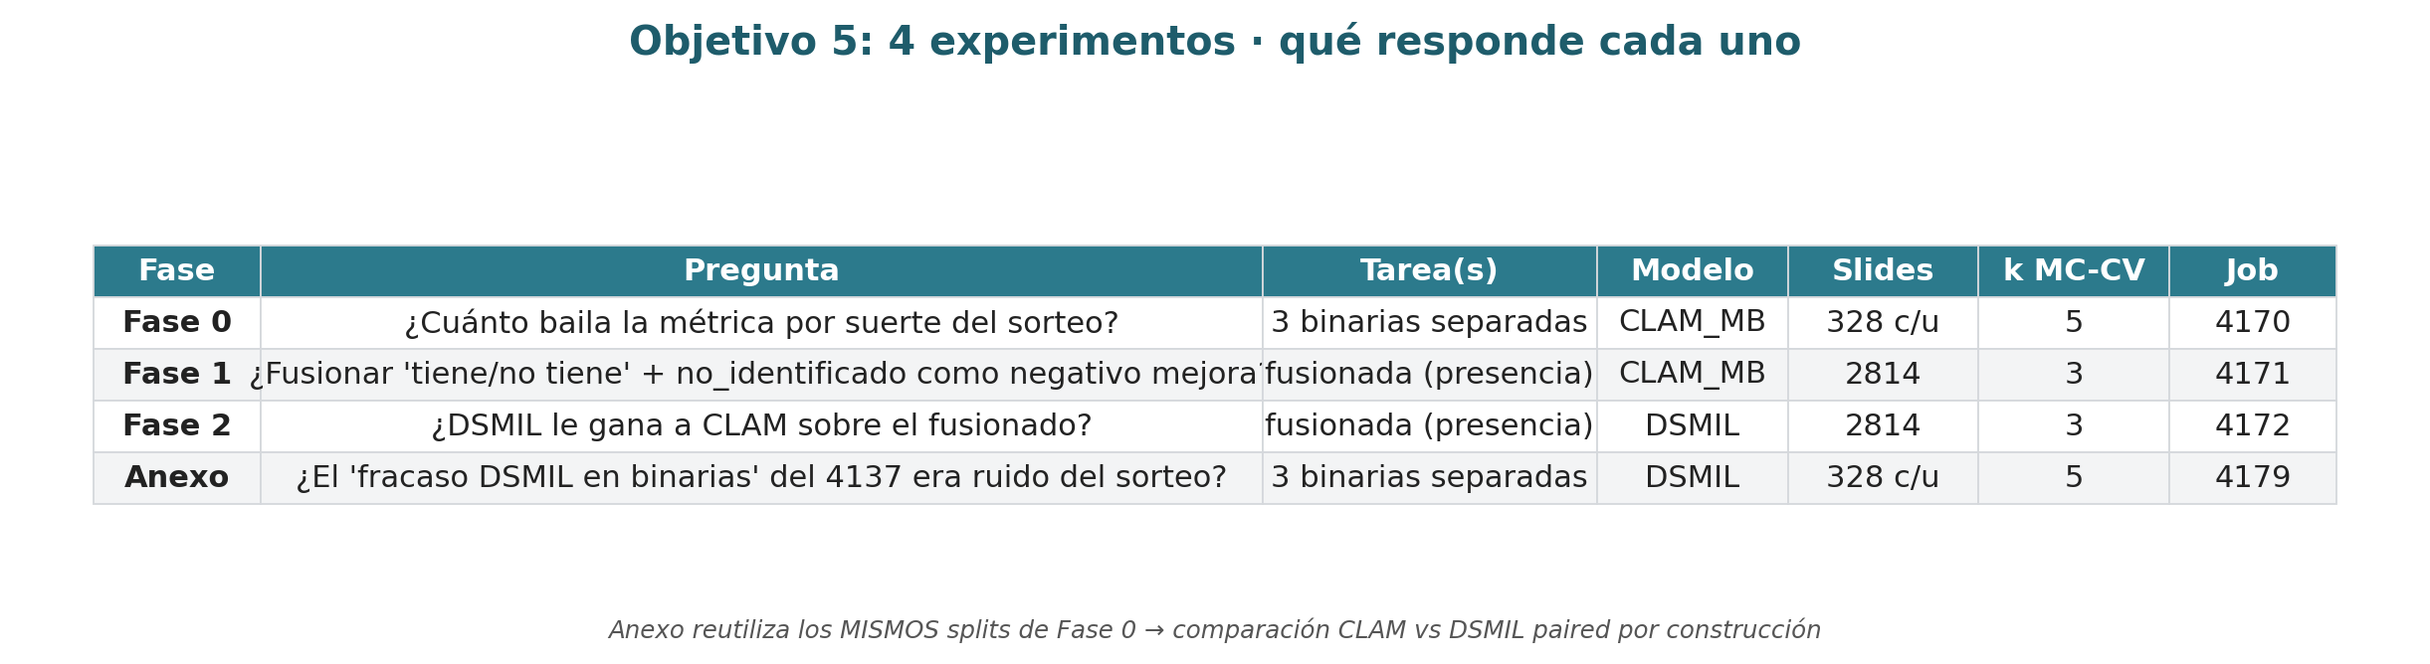
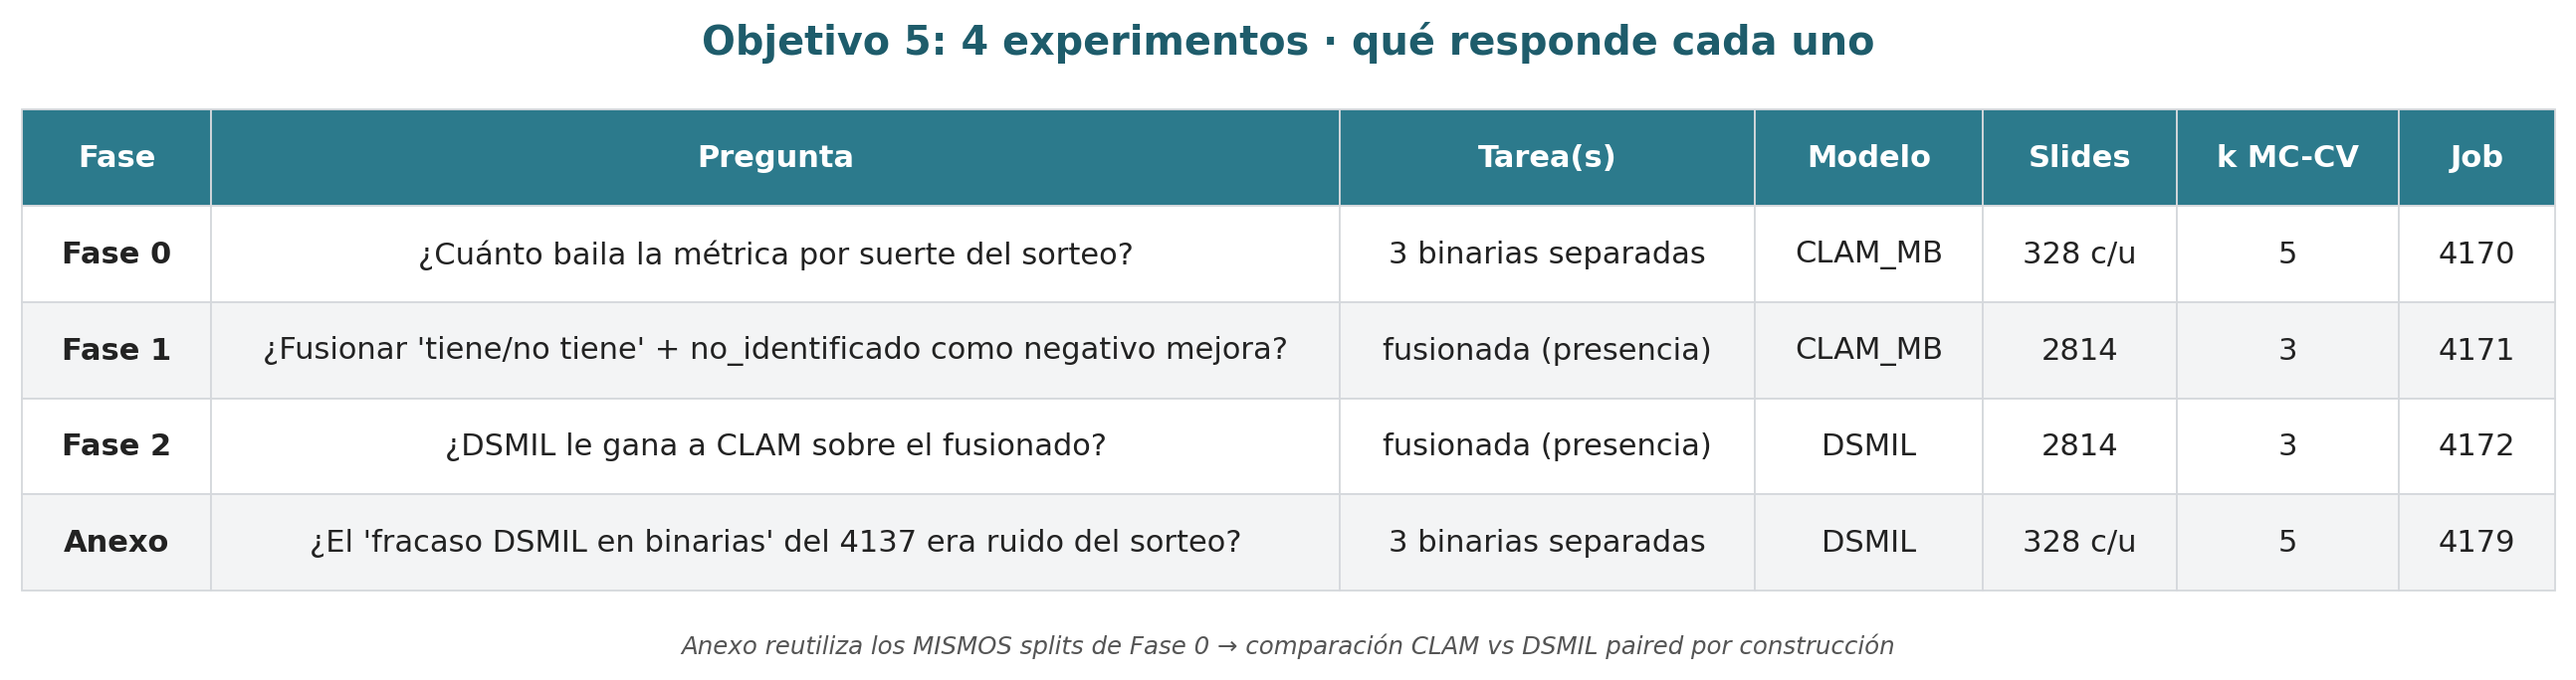
fix(slide_assets): render_table auto-dimensiona columnas midiendo el texto
Las tablas T04/T05/T10/T12/T13 tenian texto de headers/celdas que se
solapaba o se recortaba en el borde: render_table fijaba ancho de figura
y col_widths a ojo, y matplotlib no ajusta el texto al ancho de celda.

- render_table ahora mide el ancho real de cada string (Text artist sobre
  canvas Agg) y auto-calcula col widths + figura, con el eje al 100% del
  ancho -> cada columna recibe >= ancho_texto + padding por construccion.
- T13/T12/T10: celdas largas envueltas a 2-3 lineas para no producir
  imagenes absurdamente anchas.
- Regeneradas las 13 tablas (T01-T13). Matrices M## y figuras fig* intactas.

diff --git a/scripts/generate_slide_assets.py b/scripts/generate_slide_assets.py
@@ -28,6 +28,7 @@ import pickle
 import matplotlib
 matplotlib.use("Agg")
 import matplotlib.pyplot as plt
+from matplotlib.font_manager import FontProperties
 import numpy as np
 import pandas as pd
 from sklearn.metrics import balanced_accuracy_score
@@ -65,6 +66,29 @@ TEJIDO_LABEL = {
 # Helpers tabla
 # =============================================================================
 
+def _measure_text_width_in(strings_bold, fontsize):
+    """Ancho máximo (in) entre varios (texto, bold), midiendo el render real.
+
+    Mide con un Text artist sobre una figura Agg temporal → ancho exacto en px,
+    /DPI → pulgadas. Soporta multilínea (ancho = línea más larga). Esto evita
+    el solape/clipping que producía repartir col_widths a ojo.
+    """
+    fig_tmp = plt.figure(dpi=DPI)
+    renderer = fig_tmp.canvas.get_renderer()
+    maxw = 0.0
+    for s, bold in strings_bold:
+        fp = FontProperties(family="DejaVu Sans", size=fontsize,
+                            weight="bold" if bold else "normal")
+        for line in str(s).split("\n"):
+            if not line:
+                continue
+            t = fig_tmp.text(0, 0, line, fontproperties=fp)
+            maxw = max(maxw, t.get_window_extent(renderer).width / DPI)
+            t.remove()
+    plt.close(fig_tmp)
+    return maxw
+
+
 def render_table(headers, rows, out_path, col_widths=None,
                  row_colors=None, cell_colors=None,
                  header_bg=COL_TEAL, header_fg="white",
@@ -74,36 +98,61 @@ def render_table(headers, rows, out_path, col_widths=None,
 
     headers: list[str]
     rows: list[list[str]]
-    col_widths: opcional, lista de pesos (suma debe ser ~1.0)
+    col_widths: ignorado (los anchos se auto-calculan midiendo el texto). Se
+        mantiene en la firma por compatibilidad con los callers existentes.
     row_colors: opcional, color de fondo por fila (len == n_rows)
     cell_colors: opcional, dict {(i, j): color} para destacar celdas
     header_bg / header_fg: estilo del header
     title: opcional, texto en negrita arriba
     footnote: opcional, texto chico debajo
+
+    El eje ocupa el 100% del ancho de la figura, así colWidths (fracciones) se
+    mapean 1:1 a pulgadas → cada columna recibe exactamente el ancho que su
+    texto necesita (medido + padding). Sin solape ni recorte.
     """
     n_rows = len(rows); n_cols = len(headers)
-    if col_widths is None:
-        col_widths = [1.0 / n_cols] * n_cols
 
-    # Heuristica tamaño: ancho por nº cols, alto por nº rows (compacto)
-    if figsize is None:
-        w = max(8, 1.6 * n_cols)
-        h = 0.45 * (n_rows + 1) + (0.45 if title else 0.1) + (0.25 if footnote else 0.1)
-        figsize = (w, h)
+    PAD_IN = 0.34       # padding horizontal total por celda (in)
+    MIN_COL_IN = 0.55   # ancho mínimo de columna (in)
 
-    fig, ax = plt.subplots(figsize=figsize, dpi=DPI)
+    # --- Ancho necesario por columna (medición exacta del texto) ---
+    col_in = []
+    maxlines = 1
+    for j in range(n_cols):
+        items = [(headers[j], True)] + [(rows[i][j], j == 0) for i in range(n_rows)]
+        need = _measure_text_width_in(items, fontsize)
+        col_in.append(max(MIN_COL_IN, need + PAD_IN))
+        maxlines = max(maxlines, str(headers[j]).count("\n") + 1,
+                       *[str(rows[i][j]).count("\n") + 1 for i in range(n_rows)])
+
+    table_w = sum(col_in)
+    colWidths = [c / table_w for c in col_in]
+
+    # --- Geometría de la figura ---
+    row_in = 0.30 * maxlines + 0.14
+    table_h = row_in * (n_rows + 1)
+    title_h = 0.62 if title else 0.10
+    foot_h = 0.50 if footnote else 0.10
+    fig_w = table_w + 0.30
+    fig_h = table_h + title_h + foot_h
+
+    fig = plt.figure(figsize=(fig_w, fig_h), dpi=DPI)
+    ax = fig.add_axes([0.0, foot_h / fig_h, 1.0, table_h / fig_h])
     ax.axis("off")
 
     table = ax.table(
         cellText=rows,
         colLabels=headers,
-        colWidths=col_widths,
+        colWidths=colWidths,
         loc="center",
         cellLoc="center",
     )
     table.auto_set_font_size(False)
     table.set_fontsize(fontsize)
-    table.scale(1, 1.6)
+    # Altura uniforme: las n_rows+1 celdas llenan el eje exactamente
+    cell_h = 1.0 / (n_rows + 1)
+    for cell in table.get_celld().values():
+        cell.set_height(cell_h)
 
     # Estilo: header
     for j in range(n_cols):
@@ -112,7 +161,6 @@ def render_table(headers, rows, out_path, col_widths=None,
         c.set_text_props(color=header_fg, weight="bold", fontsize=fontsize)
         c.set_edgecolor(COL_BORDER)
         c.set_linewidth(0.6)
-        c.set_height(c.get_height() * 1.0)
 
     # Estilo: cuerpo
     for i in range(n_rows):
@@ -142,12 +190,12 @@ def render_table(headers, rows, out_path, col_widths=None,
             c.set_text_props(color=color, weight=weight, fontsize=fontsize)
 
     if title:
-        fig.suptitle(title, fontsize=fontsize + 3, color=COL_TEAL_DK, weight="bold", y=0.97)
+        fig.text(0.5, 1 - title_h / (2 * fig_h), title, ha="center", va="center",
+                 fontsize=fontsize + 3, color=COL_TEAL_DK, weight="bold")
     if footnote:
-        fig.text(0.5, 0.015, footnote, ha="center", fontsize=fontsize - 2,
-                 color=COL_GRIS_TXT, style="italic")
+        fig.text(0.5, foot_h / (2 * fig_h), footnote, ha="center", va="center",
+                 fontsize=fontsize - 2, color=COL_GRIS_TXT, style="italic")
 
-    fig.tight_layout(rect=[0, 0.03 if footnote else 0, 1, 0.93 if title else 1])
     fig.savefig(out_path, dpi=DPI, bbox_inches="tight", facecolor="white")
     plt.close(fig)
     print(f"  → {os.path.basename(out_path)}")
@@ -542,11 +590,11 @@ def asset_anexo_paired_per_fold():
         db, _ = deltas_per_task[t]
         n_pos = (db > 0).sum(); n_neg = (db < 0).sum()
         if n_neg == 5:
-            txt, col = "5/5 negativo (consistente)", COL_ROJO
+            txt, col = "5/5 negativo\n(consistente)", COL_ROJO
         elif n_pos == 5:
-            txt, col = "5/5 positivo (consistente)", COL_VERDE
+            txt, col = "5/5 positivo\n(consistente)", COL_VERDE
         else:
-            txt, col = f"{n_pos}/5 positivo, {n_neg}/5 negativo (mixto)", COL_AMBAR
+            txt, col = f"{n_pos}/5 positivo,\n{n_neg}/5 negativo (mixto)", COL_AMBAR
         signs_row.append(txt)
     rows.append(signs_row)
     for j in range(1, 4):
@@ -605,7 +653,7 @@ def asset_comparativa_maestra():
 def asset_comparativa_sebastian():
     headers = ["Tarea", "4109 (1 sorteo)", "Fase 0 MC-CV (honesto)", "Sebastián (1 sorteo)", "¿distinguibles?"]
     rows = [
-        ["micro carcinoma invasivo",  "0.808", "0.732 ± 0.167", "0.79", "NO — Sebastián cae dentro de nuestra banda"],
+        ["micro carcinoma invasivo",  "0.808", "0.732 ± 0.167", "0.79", "NO — Sebastián cae\ndentro de nuestra banda"],
         ["micro CDIS",                 "0.678", "0.652 ± 0.072", "0.69", "NO — se solapan"],
         ["micro tejido no neoplásico", "0.658", "0.646 ± 0.025", "0.63", "NO — se solapan"],
     ]
@@ -621,9 +669,10 @@ def asset_cuadro_arquitecturas():
     """Cuadro 2x2 modelos x regímenes (DSMIL evaluado en todo)."""
     headers = ["", "Binarias separadas (n=328, k=5)", "Fusionado (n=2814, k=3)"]
     rows = [
-        ["CLAM",  "Fase 0 (job 4170)  ·  bal 0.58–0.64", "Fase 1 (job 4171)  ·  bal 0.620 ± 0.010 (plateau)"],
-        ["DSMIL", "Anexo (job 4179)  ·  bal 0.54–0.62  ·  Δ pareado ≈ 0 (CDIS regresión leve)",
-                  "Fase 2 (job 4172)  ·  bal 0.661 ± 0.046 (ambigua)  ·  Δ pareado +0.040 ± 0.038"],
+        ["CLAM",  "Fase 0 (job 4170)\nbal 0.58–0.64",
+                  "Fase 1 (job 4171)\nbal 0.620 ± 0.010 (plateau)"],
+        ["DSMIL", "Anexo (job 4179)\nbal 0.54–0.62\nΔ pareado ≈ 0 (CDIS regresión leve)",
+                  "Fase 2 (job 4172)\nbal 0.661 ± 0.046 (ambigua)\nΔ pareado +0.040 ± 0.038"],
     ]
     footnote = ("DSMIL evaluado en TODOS los regímenes con MC-CV · "
                 "la arquitectura sola NO es la palanca a ninguna escala disponible")
